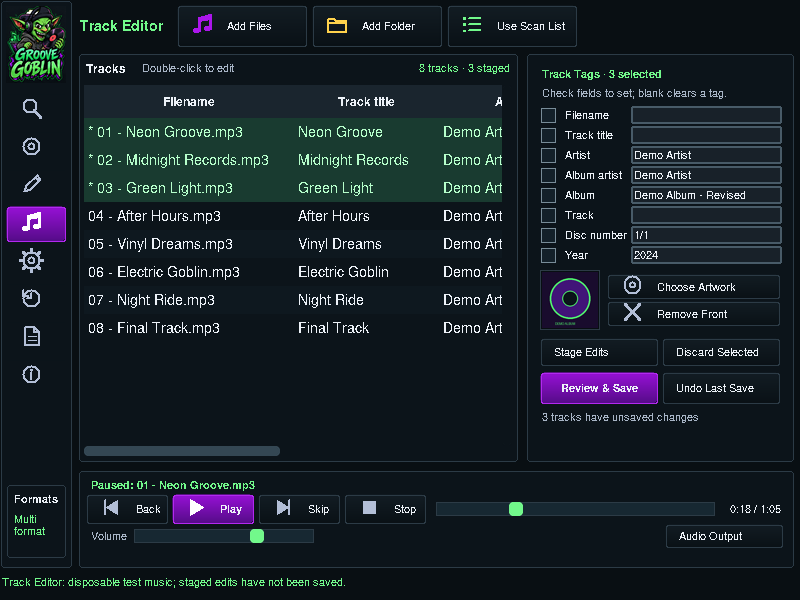
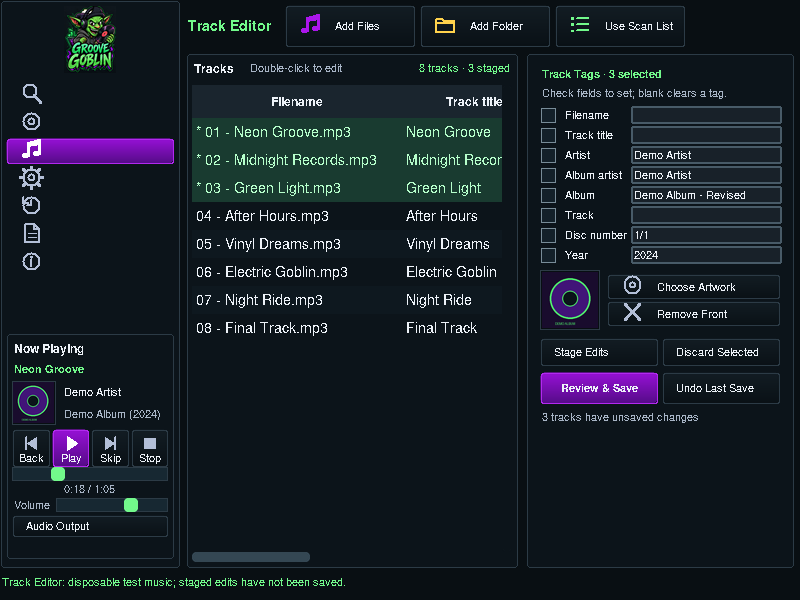
Move shared player into sidebar and remove redundant manual navigation

diff --git a/groove_track_editor.py b/groove_track_editor.py
@@ -2,6 +2,8 @@
 from io import BytesIO
 import json
 import os
+import queue
+import threading
 from pathlib import Path
 from types import SimpleNamespace
 import tkinter as tk
@@ -107,7 +109,7 @@ class TrackEditor(tk.Frame):
         width=268 if compact else 320
         self.body.columnconfigure(1,minsize=width)
         self.side_panel.configure(width=width)
-        for panel in (self.list_panel,self.side_panel,self.player_panel):
+        for panel in (self.list_panel,self.side_panel):
             panel.padding=6 if compact else 10
             panel.resize(SimpleNamespace(width=panel.winfo_width(),height=panel.winfo_height()))
         for index,button in enumerate(self.top_buttons):
@@ -405,27 +407,94 @@ class TrackEditor(tk.Frame):
         self.app.run_background(work)
 
     def build_player(self):
-        self.player_panel=Panel(self,padding=8,height=98)
-        self.player_panel.grid(row=2,column=0,sticky='ew',pady=(8,0))
-        bar=self.player_panel.body;bar.columnconfigure(1,weight=1)
+        # The host belongs to the sidebar, not to the editor page.
+        self.player_panel=self.app.sidebar_player_panel
+        bar=self.player_panel.body;bar.columnconfigure(0,weight=1)
+        self.player_heading=tk.Label(bar,text='Now Playing',bg=PANEL,fg=FG,font=(self.app.ui_font,10,'bold'),anchor='w')
+        self.player_heading.grid(row=0,column=0,sticky='ew')
         self.now=tk.Label(bar,text='Select a track and press Play',bg=PANEL,fg=GREEN,font=(self.app.ui_font,9,'bold'),anchor='w')
-        self.now.grid(row=0,column=0,columnspan=3,sticky='ew',padx=5)
-        controls=tk.Frame(bar,bg=PANEL);controls.grid(row=1,column=0,sticky='w')
+        self.now.grid(row=1,column=0,sticky='ew',pady=(2,3))
+        details=tk.Frame(bar,bg=PANEL);details.grid(row=2,column=0,sticky='ew');details.columnconfigure(1,weight=1)
+        self.player_cover=tk.Canvas(details,width=58,height=58,bg='#080e12',highlightthickness=1,highlightbackground=LINE)
+        self.player_cover.grid(row=0,column=0,rowspan=2,padx=(0,6))
+        self.player_artist=tk.Label(details,text='Artist',bg=PANEL,fg=FG,font=(self.app.ui_font,9),anchor='w')
+        self.player_artist.grid(row=0,column=1,sticky='ew')
+        self.player_album=tk.Label(details,text='Album · Year',bg=PANEL,fg=MUTED,font=(self.app.ui_font,8),anchor='w')
+        self.player_album.grid(row=1,column=1,sticky='ew')
+        controls=tk.Frame(bar,bg=PANEL);controls.grid(row=3,column=0,sticky='ew',pady=(4,0))
         self.play_buttons=[]
-        for text,command in [('Back',lambda:self.player_command(self.player.previous)),('Play',self.play_pause),
-                             ('Skip',lambda:self.player_command(self.player.next)),('Stop',lambda:self.player_command(self.player.stop))]:
-            button=Button(controls,text,command,width=82,height=30,primary=text=='Play',symbol=text.lower(),font=(self.app.ui_font,8))
-            button.pack(side='left',padx=2);self.play_buttons.append(button)
+        for i,(text,command) in enumerate([('Back',lambda:self.player_command(self.player.previous)),('Play',self.play_pause),
+                             ('Skip',lambda:self.player_command(self.player.next)),('Stop',lambda:self.player_command(self.player.stop))]):
+            controls.columnconfigure(i,weight=1)
+            button=Button(controls,text,command,width=38,height=40,primary=text=='Play',symbol=text.lower(),vertical=True,font=(self.app.ui_font,8))
+            button.grid(row=0,column=i,sticky='ew',padx=(0,2 if i<3 else 0));self.play_buttons.append(button)
         self.progress=ttk.Scale(bar,from_=0,to=1,style='Player.Horizontal.TScale')
-        self.progress.grid(row=1,column=1,sticky='ew',padx=8)
+        self.progress.grid(row=4,column=0,sticky='ew')
         self.progress.bind('<ButtonPress-1>',lambda e:setattr(self,'seeking',True))
         self.progress.bind('<ButtonRelease-1>',self.seek)
-        self.time=tk.Label(bar,text='0:00 / 0:00',bg=PANEL,fg=FG,font=(self.app.ui_font,8));self.time.grid(row=1,column=2,padx=5)
-        volume=tk.Frame(bar,bg=PANEL);volume.grid(row=2,column=0,columnspan=3,sticky='ew')
-        tk.Label(volume,text='Volume',bg=PANEL,fg=MUTED,font=(self.app.ui_font,8)).pack(side='left',padx=5)
-        self.volume=ttk.Scale(volume,from_=0,to=100,command=self.player.set_volume,style='Player.Horizontal.TScale');self.volume.set(70);self.volume.configure(length=180);self.volume.pack(side='left',padx=(0,8))
-        self.audio_output_button=Button(volume,'Audio Output',self.show_audio_output,width=118,height=24,font=(self.app.ui_font,8))
-        self.audio_output_button.pack(side='right',padx=5)
+        self.time=tk.Label(bar,text='0:00 / 0:00',bg=PANEL,fg=MUTED,font=(self.app.ui_font,8))
+        self.time.grid(row=5,column=0,sticky='ew')
+        volume=tk.Frame(bar,bg=PANEL);volume.grid(row=6,column=0,sticky='ew');volume.columnconfigure(1,weight=1)
+        tk.Label(volume,text='Volume',bg=PANEL,fg=MUTED,font=(self.app.ui_font,8)).grid(row=0,column=0,padx=(0,4))
+        self.volume=ttk.Scale(volume,from_=0,to=100,command=self.player.set_volume,style='Player.Horizontal.TScale')
+        self.volume.set(70);self.volume.configure(length=70);self.volume.grid(row=0,column=1,sticky='ew')
+        self.audio_output_button=Button(bar,'Audio Output',self.show_audio_output,width=118,height=22,font=(self.app.ui_font,8))
+        self.audio_output_button.grid(row=7,column=0,sticky='ew',pady=(2,0))
+        self.player_art_queue=queue.Queue();self.player_art_key=object();self.player_photo=None;self.player_art_size=58
+        self.player_cover.bind('<Configure>',lambda event:self.update_player_art())
+
+    def resize_player(self,compact):
+        self.player_art_size=42 if compact else 58
+        self.player_cover.configure(width=self.player_art_size,height=self.player_art_size)
+        self.player_heading.configure(font=(self.app.ui_font,9 if compact else 10,'bold'))
+        for button in self.play_buttons:
+            button.configure(height=38 if compact else 40);button.draw()
+        self.update_player_details()
+        self.update_player_art()
+
+    def update_player_details(self):
+        from tkinter import font as tkfont
+        current=self.player.current
+        def fit(label,text,suffix=""):
+            # Keep the sidebar width fixed even with long tags or filenames.
+            text=' '.join(str(text).split())
+            width=max(20,label.winfo_width()-4)
+            font=tkfont.Font(master=self.app,font=label.cget('font'))
+            if font.measure(text+suffix)>width:
+                low,high=0,len(text)
+                while low<high:
+                    middle=(low+high+1)//2
+                    if font.measure(text[:middle]+'…'+suffix)<=width:low=middle
+                    else:high=middle-1
+                text=text[:low]+'…'
+            text+=suffix
+            label.configure(text=text)
+        fit(self.now,(current.get('title') or Path(current['path']).stem) if current else 'Select a track and press Play')
+        fit(self.player_artist,(current.get('artist') or 'Unknown artist') if current else 'Artist')
+        album=(current.get('album') or 'Unknown album') if current else 'Album'
+        year=current.get('year','') if current else ''
+        fit(self.player_album,album,(' ('+str(year)+')' if year else ''))
+
+    def update_player_art(self):
+        current=self.player.current
+        key=(current['path'],tuple(current.get('signature',())),self.player_art_size) if current else None
+        if key==self.player_art_key:return
+        self.player_art_key=key;self.player_photo=None
+        self.player_cover.delete('all')
+        from groove_widgets import icon
+        size=self.player_art_size
+        icon(self.player_cover,'disc',4,4,size-8,MUTED)
+        if not key:return
+        def read():
+            image=None
+            try:
+                art=read_track(key[0],include_artwork=True).get('artwork')
+                if art:
+                    with Image.open(BytesIO(art)) as source:
+                        source.thumbnail((key[2],key[2]),Image.Resampling.LANCZOS);image=source.convert('RGB').copy()
+            except (OSError,ValueError):pass
+            self.player_art_queue.put((key,image))
+        threading.Thread(target=read,daemon=True,name='sidebar-artwork').start()
 
     def show_audio_output(self):
         existing=getattr(self,'audio_dialog',None)
@@ -480,7 +549,7 @@ class TrackEditor(tk.Frame):
         if self.app.worker_busy:return
         selected=self.selected()
         path=selected[0] if selected else None
-        if self.player.current and (path is None or self.player.current['path'] in selected):self.player_command(self.player.toggle)
+        if self.player.current and (self.app._active_page!='tracks' or path is None or self.player.current['path'] in selected):self.player_command(self.player.toggle)
         elif path:
             if Path(path).suffix.lower()=='.pcm' and not self.records[path].get('pcm'):
                 settings=self.pcm_dialog()
@@ -524,8 +593,13 @@ class TrackEditor(tk.Frame):
         self.timer=None
         try:self.player.pump()
         except Exception as error:self.player.stop();self.app.log('Playback: '+str(error));self.app.status.set('Playback: '+str(error).splitlines()[0])
-        current=self.player.current
-        self.now.configure(text=(self.player.state.title()+': '+Path(current['path']).name) if current else 'Select a track and press Play')
+        self.update_player_details();self.update_player_art()
+        while not self.player_art_queue.empty():
+            key,image=self.player_art_queue.get_nowait()
+            if key==self.player_art_key and image is not None:
+                self.player_photo=ImageTk.PhotoImage(image,master=self.app)
+                self.player_cover.delete('all')
+                self.player_cover.create_image(self.player_art_size/2,self.player_art_size/2,image=self.player_photo)
         self.play_buttons[1].state(['disabled'] if self.player.state=='buffering' else ['!disabled'])
         playing=self.player.state=='playing'
         self.play_buttons[1].text='Wait' if self.player.state=='buffering' else ('Pause' if playing else 'Play')

diff --git a/groove_responsive.py b/groove_responsive.py
@@ -4,7 +4,7 @@ from types import SimpleNamespace
 import tkinter as tk
 from tkinter import ttk, font as tkfont
 from PIL import Image, ImageTk
-from groove_widgets import Button, Check, Panel, icon, BG, MUTED
+from groove_widgets import Button, Check
 
 
 class ResponsiveLayout:
@@ -18,9 +18,6 @@ class ResponsiveLayout:
         self.toolbar=list(widgets['toolbar'].winfo_children())
         self.checks=[child for child in widgets['checkrow'].winfo_children() if isinstance(child,Check)]
         self.version=[c for c in widgets['side'].winfo_children() if isinstance(c,tk.Label)][0]
-        self.format_title=widgets['formats'].body.winfo_children()[0]
-        self.format_inner=widgets['doc'].master
-        self.format_labels=[c for c in self.format_inner.winfo_children() if isinstance(c,tk.Label)]
         self.detail_title=widgets['details'].body.winfo_children()[0]
         for name,button in app.nav_buttons.items():
             button.bind('<Enter>',lambda e,b=button,text=self.nav_text[name]:self.show_tip(b,text),add='+')
@@ -68,7 +65,7 @@ class ResponsiveLayout:
         compact=width<1000 or height<650
         medium=not compact and (width<1350 or height<850)
         self.icon_nav=width<1100 or height<650
-        sidebar_width=72 if self.icon_nav else (180 if medium else 260)
+        sidebar_width=180 if self.icon_nav else (210 if medium else 260)
         rail_width=244 if compact else (294 if medium else 342)
         center_width=max(300,width-sidebar_width-rail_width-32)
         scale=.82 if compact else (.92 if medium else 1)
@@ -92,13 +89,14 @@ class ResponsiveLayout:
                 if isinstance(widget,Check):widget.configure(height=20 if compact else (23 if medium else 25))
                 widget.draw()
             else:widget.configure(font=font)
-        for panel in (w['sidebar'],w['albums'],w['preview'],w['details'],w['results'],w['formats']):
+        for panel in (w['sidebar'],w['albums'],w['preview'],w['details'],w['results'],w['player']):
             panel.padding=6 if compact else (9 if medium else 11)
             panel.resize(SimpleNamespace(width=panel.winfo_width(),height=panel.winfo_height()))
 
-        nav_height=(36 if compact else (40 if medium else 49))+2
-        logo_budget=max(70,height-len(a.nav_buttons)*nav_height-(74 if self.icon_nav else (128 if medium else 170))-90)
-        logo_width=60 if self.icon_nav else min(160 if medium else 238,int(logo_budget*self.logo_source.width/self.logo_source.height))
+        player_height=226 if compact else (242 if medium else 252)
+        nav_height=(26 if compact else (36 if medium else 44))+2
+        logo_budget=max(48,height-len(a.nav_buttons)*nav_height-player_height-54)
+        logo_width=min(52 if compact else (120 if self.icon_nav else (174 if medium else 238)),int(logo_budget*self.logo_source.width/self.logo_source.height))
         if logo_width!=self.logo_size:
             img=self.logo_source.copy();img.thumbnail((logo_width,320),Image.Resampling.LANCZOS)
             a.logo=ImageTk.PhotoImage(img,master=a);a._logo_label.configure(image=a.logo);self.logo_size=logo_width
@@ -114,21 +112,10 @@ class ResponsiveLayout:
             while button.text and font[1]>8 and tkfont.Font(master=a,font=(*font,'bold')).measure(button.text)>available:
                 font=(font[0],font[1]-1,*font[2:])
             button.font=font
-            button.configure(width=sidebar_width-20,height=36 if compact else (40 if medium else 49));button.draw()
-        formats=w['formats'];formats.configure(height=74 if self.icon_nav else (128 if medium else 170))
-        formats.grid_configure(pady=(3,4) if compact else (8,12))
-        self.format_title.configure(text='Formats' if self.icon_nav else 'Supported Formats')
-        if self.icon_nav:
-            w['doc'].pack_forget();w['format_note'].pack_forget()
-            self.format_inner.pack_configure(pady=(3,0))
-            self.format_labels[0].configure(text='Multi\nformat')
-        else:
-            w['doc'].pack(side='left',padx=(0,8 if medium else 15),before=self.format_labels[0])
-            w['format_note'].pack(side='bottom',fill='x',pady=(4,0),before=self.format_inner)
-            self.format_inner.pack_configure(pady=(7 if medium else 10,0))
-            self.format_labels[0].configure(font=(a.ui_font,8 if medium else 9),text='WAV AIFF FLAC\nMP3 M4A ALAC\nAPE WV WMA\nOGG OPUS DSD\nAAC PCM CDA*')
-            w['doc'].configure(width=50 if medium else 76,height=64 if medium else 84)
-            w['doc'].delete('all');icon(w['doc'],'files',4,2,46 if medium else 70,'#c4cedc')
+            button.configure(width=sidebar_width-20,height=26 if compact else (36 if medium else 44));button.draw()
+        w['player'].configure(height=player_height)
+        w['player'].grid_configure(pady=(3,3))
+        a.track_editor.resize_player(compact)
 
         columns=2 if center_width<660 else 4
         for col in range(4):w['toolbar'].columnconfigure(col,weight=1 if col<columns else 0,minsize=0)

diff --git a/tests/test_track_editor.py b/tests/test_track_editor.py
@@ -270,7 +270,7 @@ class TrackEditorTests(unittest.TestCase):
         a=self.app;e=self.editor
         for width,height in [(800,600),(1024,768),(1536,1000),(1920,1080),(850,620)]:
             a.geometry(f'{width}x{height}');a.update();a._responsive.apply();e.resize();a.update()
-            for widget in (*e.entries.values(),e.cover,e.save_button,e.undo_button,e.stage_button,e.discard_button,e.progress,e.volume,e.audio_output_button,*e.play_buttons,*e.top_buttons):
+            for widget in (*e.entries.values(),e.cover,e.save_button,e.undo_button,e.stage_button,e.discard_button,e.progress,e.volume,e.audio_output_button,e.player_cover,e.now,e.player_artist,e.player_album,*e.play_buttons,*e.top_buttons):
                 self.assertTrue(widget.winfo_ismapped(),str(widget))
                 parent=widget.master
                 x=widget.winfo_rootx();y=widget.winfo_rooty()
@@ -290,8 +290,47 @@ class TrackEditorTests(unittest.TestCase):
         self.assertLessEqual(version.winfo_rooty()+version.winfo_height(),a.winfo_rooty()+a.winfo_height())
         for size in ('1120x740','1320x800','1536x1000','1920x1080'):
             a.geometry(size);a.update();a._responsive.apply();a.update()
-            note=a._responsive.w['format_note'];font=tkfont.Font(master=a,font=note.cget('font'))
-            self.assertTrue(note.winfo_ismapped())
-            self.assertLessEqual(font.measure(note.cget('text')),note.winfo_width())
-            self.assertGreaterEqual(note.winfo_height(),note.winfo_reqheight())
-            self.assertLessEqual(note.winfo_rooty()+note.winfo_height(),note.master.winfo_rooty()+note.master.winfo_height())
+            for label in (e.now,e.player_artist,e.player_album):
+                font=tkfont.Font(master=a,font=label.cget('font'))
+                self.assertTrue(label.winfo_ismapped())
+                self.assertLessEqual(font.measure(label.cget('text')),label.winfo_width())
+
+    def test_shared_sidebar_player_survives_navigation_and_shows_tags_and_art(self):
+        from io import BytesIO
+        from mutagen.flac import FLAC,Picture
+        import subprocess
+        a=self.app;e=self.editor;path=str(self.paths[1])
+        subprocess.run(['ffmpeg','-hide_banner','-loglevel','error','-f','lavfi','-i','sine=frequency=500:duration=30','-c:a','flac','-y',path],check=True)
+        picture=Picture();picture.type=3;picture.mime='image/png'
+        buffer=BytesIO();Image.new('RGB',(32,32),'blue').save(buffer,format='PNG');picture.data=buffer.getvalue()
+        audio=FLAC(path);audio.add_picture(picture);audio['title']='Second';audio['artist']='Test Artist';audio['album']='Test Album';audio['date']='2025';audio.save()
+        e.records[path]=read_track(path)
+        e.tree.selection_set(path);e.play_pause()
+        deadline=time.monotonic()+3
+        while time.monotonic()<deadline and (e.player_photo is None or e.player.state!='playing'):
+            a.update();time.sleep(.02)
+        self.assertIsNotNone(e.player_photo)
+        self.assertNotIn('manual',a.nav_buttons)
+        self.assertNotIn('formats',a._responsive.w)
+        self.assertIs(e.player_panel,a.sidebar_player_panel)
+        self.assertIsNot(e.player_panel.master,e)
+        a.geometry('1536x1000');a.update();a._responsive.apply();e.update_player_details();a.update()
+        self.assertEqual(e.now.cget('text'),'Second')
+        self.assertEqual(e.player_artist.cget('text'),'Test Artist')
+        self.assertEqual(e.player_album.cget('text'),'Test Album (2025)')
+        e.volume.set(38);volume=e.player.volume;playlist=list(e.player.playlist)
+        # A different editor selection must not replace playback from another page.
+        e.tree.selection_set(str(self.paths[0]))
+        for page in (a.tab_albums,a.tab_editor,a.tab_history,e):
+            a.tabs.select(page);a.update()
+            self.assertEqual(e.player.playlist,playlist)
+            self.assertEqual(e.player.volume,volume)
+            for widget in (e.player_panel,e.player_cover,e.progress,e.volume,e.audio_output_button,*e.play_buttons):
+                self.assertTrue(widget.winfo_ismapped())
+        a.tabs.select(a.tab_albums);e.play_pause();self.assertEqual(e.player.state,'paused')
+        e.play_pause();self.assertEqual(e.player.state,'playing')
+        self.assertEqual(e.player.current['path'],path)
+        e.player.stop();e.player.playlist=[];e.player.index=-1
+        e.update_player_art();e.update_player_details();a.update()
+        self.assertIsNone(e.player_photo)
+        self.assertEqual(e.player_artist.cget('text'),'Artist')

diff --git a/groove_layout.py b/groove_layout.py
@@ -206,7 +206,6 @@ def install_layout(cls):
         for name,label,symbol,action in [
             ('scan','Scan & Rename','search',lambda:self.tabs.select(self.tab_albums)),
             ('lookup','Album Lookup','disc',self.go_editor),
-            ('manual','Manual Edit','edit',self.go_editor),
             ('tracks','Track Editor','music',lambda:self.tabs.select(self.track_editor)),
             ('settings','Settings','gear',self.show_settings),
             ('undo','Undo / Backups','undo',lambda:self.tabs.select(self.tab_history)),
@@ -215,15 +214,8 @@ def install_layout(cls):
         ]:
             b=Button(nav,label,action,width=234,height=49,symbol=symbol,navigation=True,font=(self.ui_font,11))
             b.active=name=='scan';b.pack(fill='x',pady=1);self.nav_buttons[name]=b
-        formats=Panel(side,height=160,padding=12)
-        formats.grid(row=3,column=0,sticky='ew',pady=(8,12))
-        tk.Label(formats.body,text='Supported Formats',bg=PANEL,fg=FG,font=(self.ui_font,10,'bold')).pack(anchor='w')
-        format_note=tk.Label(formats.body,text='* Format limits: see About',bg=PANEL,fg=MUTED,font=(self.ui_font,8),anchor='w')
-        format_note.pack(side='bottom',fill='x',pady=(4,0))
-        formats_inner=tk.Frame(formats.body,bg=PANEL);formats_inner.pack(fill='both',expand=True,pady=(14,0))
-        doc=tk.Canvas(formats_inner,width=76,height=84,bg=PANEL,highlightthickness=0)
-        doc.pack(side='left',padx=(0,15));icon(doc,'files',6,2,70,'#c4cedc')
-        tk.Label(formats_inner,text='WAV AIFF FLAC\nMP3 M4A ALAC\nAPE WV WMA\nOGG OPUS DSD\nAAC PCM CDA*',bg=PANEL,fg=GREEN,font=(self.ui_font,9),justify='left').pack(anchor='w')
+        self.sidebar_player_panel=Panel(side,height=252,padding=8)
+        self.sidebar_player_panel.grid(row=3,column=0,sticky='ew',pady=(4,4))
         tk.Label(side,text=f'Groove Goblin v{__version__}',bg=PANEL,fg=MUTED,font=(self.ui_font,9)).grid(row=4,column=0,sticky='w',pady=(4,8))
 
         # Main center + compact right rail.
@@ -361,7 +353,7 @@ def install_layout(cls):
         from groove_track_editor import TrackEditor
         self.track_editor=TrackEditor(self)
         from groove_responsive import ResponsiveLayout
-        self._responsive=ResponsiveLayout(self,dict(sidebar=sidebar,side=side,brand=brand,nav=nav,formats=formats,doc=doc,format_note=format_note,
+        self._responsive=ResponsiveLayout(self,dict(sidebar=sidebar,side=side,brand=brand,nav=nav,player=self.sidebar_player_panel,
             center=center,toolbar=toolbar,checkrow=checkrow,albums=albums,preview=preview,filters=filters,views=views,
             opts=opts,details=details,results=results,form=form,yearrow=yearrow,actions=actions,
             footer=footer,footer_spacer=footer_spacer,controls=controls))

diff --git a/groove_version.py b/groove_version.py
@@ -1,2 +1,2 @@
 """One version string for the window, About, journals and network user agent."""
-__version__ = '1.2.4'
+__version__ = '1.3.0'

diff --git a/README.md b/README.md
@@ -1,4 +1,4 @@
-# Groove Goblin 1.2.4
+# Groove Goblin 1.3.0
 
 Windows desktop music tagger and organizer with a responsive dark Tkinter
 interface, MusicBrainz album lookup, naming presets, manual track editing,
@@ -109,14 +109,19 @@ with a launcher, not a standalone EXE.
 ## Window sizing and keyboard
 
 Track Editor uses the same rounded panels and icon buttons as Scan & Rename, with
-alternating dark rows, green selection/staging accents and a framed player.
+alternating dark rows and green selection/staging accents.
 Tables use slim rounded scrollbars; player sliders have green handles.
 
 The app fits windows down to 800×600 without an outer scrollbar. Lists scroll
 internally when needed. Resizing reduces artwork and spacing and uses sidebar
 icons with hover labels on compact screens. The logo fills the available sidebar
-space. Format notes have a full-width footer, and [About](docs/about-linux.png)
-groups supported formats and Undo information in styled panels.
+space. [About](docs/about-linux.png) groups supported formats and Undo
+information in styled panels. The compact sidebar player replaces Supported
+Formats and remains visible across sections. It shows embedded artwork, track
+title, artist, album/year, playback buttons, time/seek and volume, with Audio
+Output underneath. Changing sections preserves playback and volume. Long tags
+are shortened with an ellipsis to fit the sidebar. Manual Edit navigation was
+removed; use Track Editor for track tags and Album Lookup for album matches.
 [Compact Scan & Rename](docs/interface-compact-linux.png) and
 [compact Track Editor](docs/track-editor-compact-linux.png) show the actual UI.
 Select album rows with Ctrl-click / Shift-click (Ctrl+A selects all visible rows),
@@ -129,7 +134,7 @@ Shift+wheel scrolls the Track Editor horizontally; scrollbar dragging still work
 
 Tab navigates controls, Ctrl / Shift selects multiple editor rows, F11 enters
 fullscreen and Esc exits. Ctrl +/- adjusts organizer table text. About and the
-sidebar display version 1.2.4.
+sidebar display version 1.3.0.
 
 Screenshots were captured on a Linux virtual display with disposable generated
 audio and covers; online results are mocked. They show the running application,
@@ -150,9 +155,10 @@ front-art replacement/removal with other art and tags preserved; byte-for-byte
 manual Undo; partial failures and external-edit protection; live GUI workflows,
 resize bounds, staging without writes, drop auto-scanning, and editor paths after
 organizer renames/Undo. Playback checks stream real generated MP3 and FLAC files
-through SDL's test audio device and exercise transport, seeking and volume.
+through SDL's test audio device and exercise transport, seeking and volume,
+sidebar artwork/metadata and playback continuity across sections.
 
-62 tests passed on Linux/Python 3.12; two Windows-only tests were skipped.
+63 tests passed on Linux/Python 3.12; two Windows-only tests were skipped.
 Linux validation cannot establish actual Windows audio-device,
 Python 3.15 playback or 125%/150% DPI behavior. The PowerShell launcher and native
 Windows message-loop subprocess tests are skipped on Linux. The user confirmed

diff --git a/CHANGELOG.md b/CHANGELOG.md
@@ -1,5 +1,13 @@
 # Changelog
 
+## 1.3.0
+
+- Removed redundant Manual Edit navigation; Track Editor and Album Lookup remain.
+- Replaced the sidebar Supported Formats panel with a compact shared player visible across sections.
+- Added current artwork, title, artist and album/year alongside playback, seek/time, volume and Audio Output controls.
+- Removed the player bar from Track Editor and preserved playback/volume during navigation.
+- Adapted sidebar sizing for smaller windows; long metadata fits with ellipses and artwork loads off the UI thread.
+
 ## 1.2.4
 
 - Changed wheel scrolling to one row per notch in organizer/editor lists and one line in text panels.

diff --git a/docs/formats.md b/docs/formats.md
@@ -1,4 +1,4 @@
-# Audio formats in Groove Goblin 1.2.4
+# Audio formats in Groove Goblin 1.3.0
 
 Add Files, folder scans, Explorer drops, Track Editor and cover previews share
 one format list. A filename extension is checked against the actual container;
